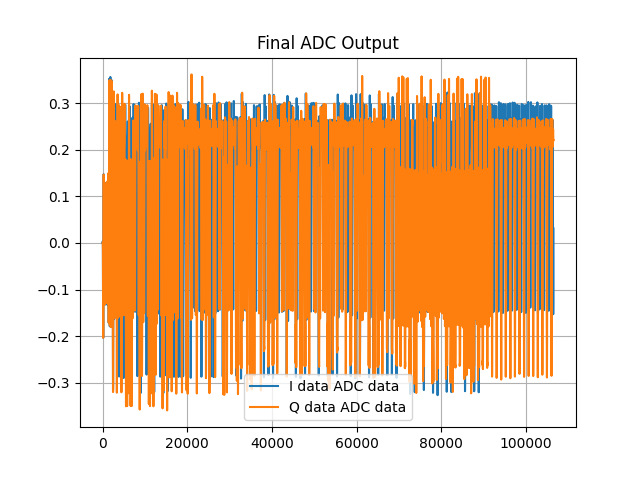
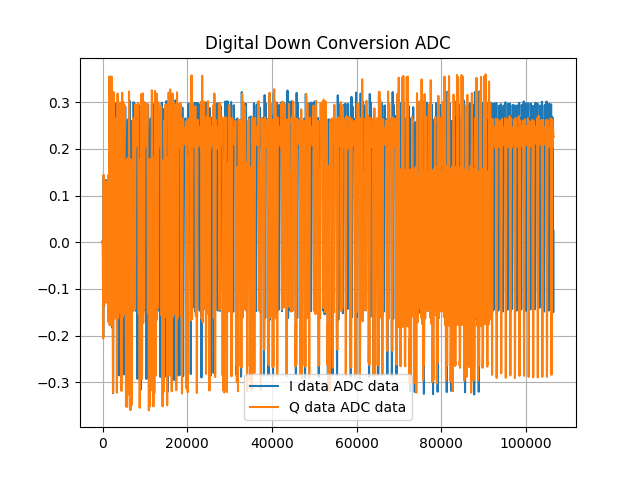
Just Show

diff --git a/QPSK_sim.py b/QPSK_sim.py
@@ -412,19 +412,19 @@ def Modulate (Data):
 
     tfc = np.arange(len(DAC_upI)) / DAC_Rd
 
-    Fc = 100e6
+    #Fc = 100e6
 
-    #Fc = int(input('Enter Frequency(MHz): '))*1e6
-    plt.cla()
+    Fc = int(input('Enter Frequency(MHz): '))*1e6
+    # plt.cla()
     
-    plt.plot(DAC_upI,label = 'I data')
-    #plt.plot(DAC_Q,label = 'Q data')
-    plt.legend()
-    plt.title('Interpolation and Low-Pass Filter in DAC')
-    plt.grid()
-    plt.show(block = False)
+    # plt.plot(DAC_upI,label = 'I data')
+    # plt.plot(DAC_Q,label = 'Q data')
+    # plt.legend()
+    # plt.title('Interpolation and Low-Pass Filter in DAC')
+    # plt.grid()
+    # plt.show(block = False)
 
-    input()
+    # input()
     carrier_I = np.cos(2*np.pi* Fc * tfc)
     carrier_Q = np.sin(2*np.pi* Fc * tfc)
 
@@ -436,7 +436,7 @@ def Modulate (Data):
     plt.plot(Sig_I,label = 'I data')
     plt.plot(Sig_Q,label = 'Q data')
     plt.legend()
-    plt.title('Interpolation in DAC')
+    plt.title('Digital Up Convertion in DAC')
     plt.grid()
 
     plt.show(block = False)
@@ -470,9 +470,9 @@ def Demodulate (ADC_IN):
     RX_Gain = 7
     ADC_IN = ADC_IN * (2**RX_Gain)
 
-    Fc = 100000000
+    #Fc = 100000000
   
-    #Fc = int(input('Enter Frequency(MHz): '))*1e6
+    Fc = int(input('Enter Frequency(MHz): '))*1e6
 
 
     carrier_I = np.cos(2*np.pi* Fc * tfc)
@@ -510,7 +510,7 @@ def Demodulate (ADC_IN):
     plt.plot(ADC_dn_I,label = 'I data ADC data')
     plt.plot(ADC_dn_Q,label = 'Q data ADC data')
     plt.legend()
-    plt.title('Final ADC Output')
+    plt.title('Digital Down Conversion ADC')
     plt.grid()
     plt.show(block = False)
     input()
@@ -573,7 +573,7 @@ def Demodulate (ADC_IN):
 
     plt.close()
     plt.figure(figsize=(6, 6))
-    plt.scatter(dn_DATA.real, dn_DATA.imag, s=2, color='blue', alpha=0.6)
+    plt.scatter(dn_DATA[50::].real, dn_DATA[50::].imag, s=2, color='blue', alpha=0.6)
     plt.axhline(0, color='black', lw=0.5)
     plt.axvline(0, color='black', lw=0.5)
     plt.grid(True, linestyle='--', alpha=0.5)
